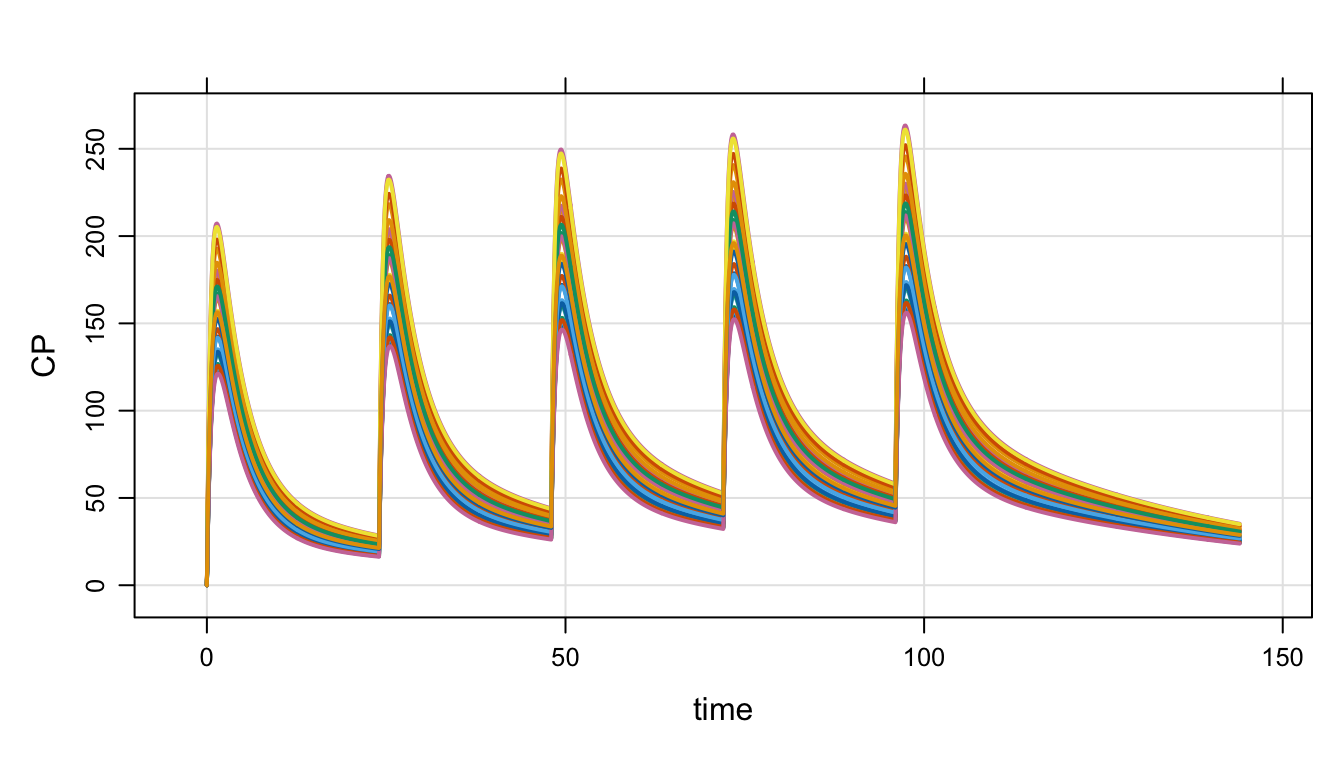
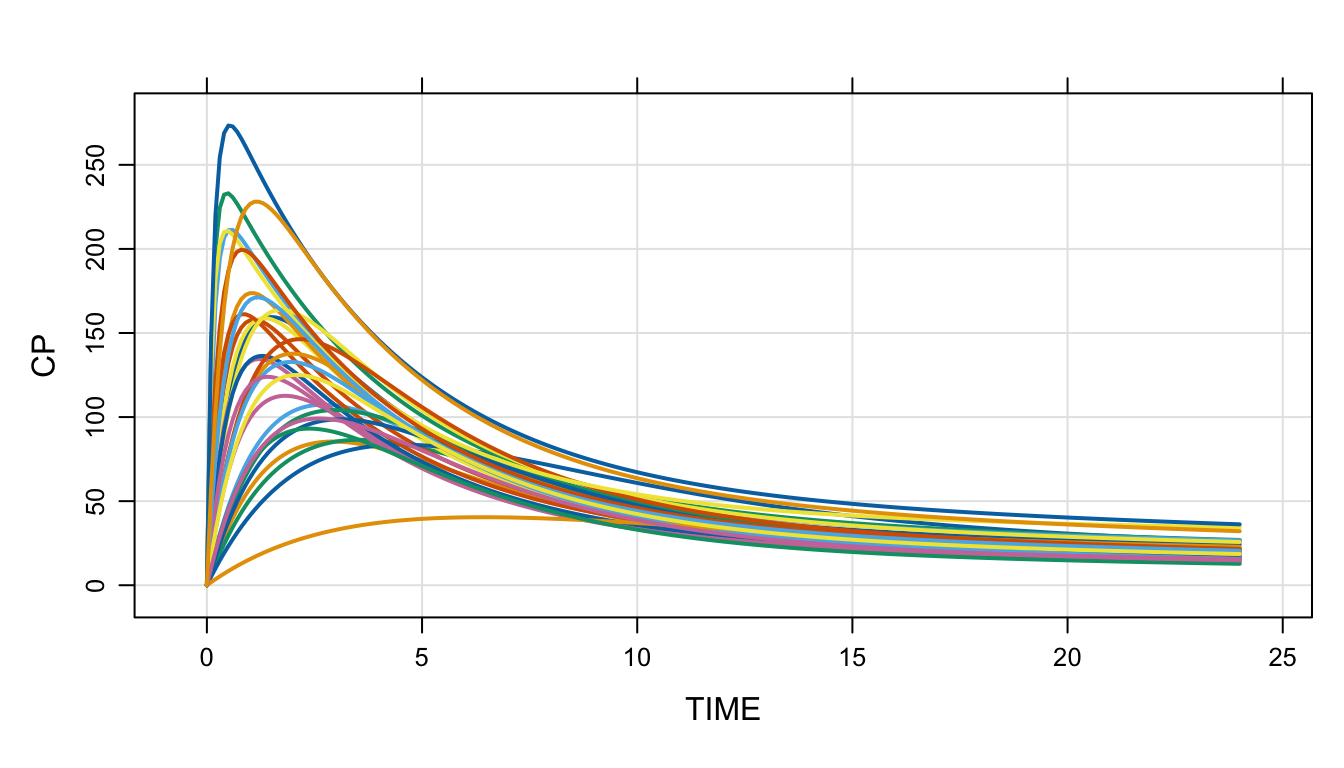
tweaks

diff --git a/wk5/docs/big-picture.html b/wk5/docs/big-picture.html
@@ -285,19 +285,27 @@ pre > code.sourceCode > span > a:first-child::before { text-decoration: underlin
 <p>To simulate a population, you’ll need what we call a data set</p>
 <div class="cell">
 <div class="sourceCode cell-code" id="cb3"><pre class="sourceCode r code-with-copy"><code class="sourceCode r"><span id="cb3-1"><a href="#cb3-1" aria-hidden="true" tabindex="-1"></a>mod <span class="ot">&lt;-</span> <span class="fu">mread_cache</span>(<span class="st">"azithro.mod"</span>, <span class="at">project =</span> <span class="fu">here</span>(<span class="st">"model"</span>))</span>
-<span id="cb3-2"><a href="#cb3-2" aria-hidden="true" tabindex="-1"></a>data <span class="ot">&lt;-</span> <span class="fu">expand.ev</span>(<span class="at">amt =</span> <span class="dv">250</span>, <span class="at">WT =</span> <span class="fu">runif</span>(<span class="dv">30</span>, <span class="dv">50</span>, <span class="dv">100</span>))</span></code><button title="Copy to Clipboard" class="code-copy-button"><i class="bi"></i></button></pre></div>
+<span id="cb3-2"><a href="#cb3-2" aria-hidden="true" tabindex="-1"></a>data <span class="ot">&lt;-</span> <span class="fu">expand.evd</span>(<span class="at">amt =</span> <span class="dv">250</span>, <span class="at">WT =</span> <span class="fu">runif</span>(<span class="dv">30</span>, <span class="dv">50</span>, <span class="dv">100</span>))</span></code><button title="Copy to Clipboard" class="code-copy-button"><i class="bi"></i></button></pre></div>
 </div>
 <div class="cell">
-<div class="sourceCode cell-code" id="cb4"><pre class="sourceCode r code-with-copy"><code class="sourceCode r"><span id="cb4-1"><a href="#cb4-1" aria-hidden="true" tabindex="-1"></a><span class="fu">set.seed</span>(<span class="dv">9876</span>)</span>
-<span id="cb4-2"><a href="#cb4-2" aria-hidden="true" tabindex="-1"></a></span>
-<span id="cb4-3"><a href="#cb4-3" aria-hidden="true" tabindex="-1"></a>mod <span class="sc">%&gt;%</span> </span>
-<span id="cb4-4"><a href="#cb4-4" aria-hidden="true" tabindex="-1"></a>  <span class="fu">data_set</span>(data) <span class="sc">%&gt;%</span> </span>
-<span id="cb4-5"><a href="#cb4-5" aria-hidden="true" tabindex="-1"></a>  <span class="fu">mrgsim</span>(<span class="at">end =</span> <span class="dv">24</span>) <span class="sc">%&gt;%</span> </span>
-<span id="cb4-6"><a href="#cb4-6" aria-hidden="true" tabindex="-1"></a>  <span class="fu">plot</span>(<span class="st">"CP"</span>)</span></code><button title="Copy to Clipboard" class="code-copy-button"><i class="bi"></i></button></pre></div>
+<div class="cell-output cell-output-stdout">
+<pre><code>  ID TIME AMT CMT EVID       WT
+1  1    0 250   1    1 75.76394
+2  2    0 250   1    1 83.29321
+3  3    0 250   1    1 57.20915</code></pre>
+</div>
+</div>
+<div class="cell">
+<div class="sourceCode cell-code" id="cb5"><pre class="sourceCode r code-with-copy"><code class="sourceCode r"><span id="cb5-1"><a href="#cb5-1" aria-hidden="true" tabindex="-1"></a><span class="fu">set.seed</span>(<span class="dv">9876</span>)</span>
+<span id="cb5-2"><a href="#cb5-2" aria-hidden="true" tabindex="-1"></a></span>
+<span id="cb5-3"><a href="#cb5-3" aria-hidden="true" tabindex="-1"></a>mod <span class="sc">%&gt;%</span> </span>
+<span id="cb5-4"><a href="#cb5-4" aria-hidden="true" tabindex="-1"></a>  <span class="fu">data_set</span>(data) <span class="sc">%&gt;%</span> </span>
+<span id="cb5-5"><a href="#cb5-5" aria-hidden="true" tabindex="-1"></a>  <span class="fu">mrgsim</span>(<span class="at">end =</span> <span class="dv">24</span>) <span class="sc">%&gt;%</span> </span>
+<span id="cb5-6"><a href="#cb5-6" aria-hidden="true" tabindex="-1"></a>  <span class="fu">plot</span>(<span class="st">"CP"</span>)</span></code><button title="Copy to Clipboard" class="code-copy-button"><i class="bi"></i></button></pre></div>
 <div class="cell-output-display">
 <div>
 <figure class="figure">
-<p><img src="big-picture_files/figure-html/unnamed-chunk-6-1.png" class="img-fluid figure-img" width="672"></p>
+<p><img src="big-picture_files/figure-html/unnamed-chunk-7-1.png" class="img-fluid figure-img" width="672"></p>
 </figure>
 </div>
 </div>
@@ -307,19 +315,28 @@ pre > code.sourceCode > span > a:first-child::before { text-decoration: underlin
 <h2 data-number="3.4" class="anchored" data-anchor-id="batch"><span class="header-section-number">3.4</span> Batch</h2>
 <p>You can also simulate a population (or a batch of subjects) with a data set of parameters and an event object</p>
 <div class="cell">
-<div class="sourceCode cell-code" id="cb5"><pre class="sourceCode r code-with-copy"><code class="sourceCode r"><span id="cb5-1"><a href="#cb5-1" aria-hidden="true" tabindex="-1"></a>mod <span class="ot">&lt;-</span> <span class="fu">mread_cache</span>(<span class="st">"azithro-fixed.mod"</span>, <span class="at">project =</span> <span class="fu">here</span>(<span class="st">"model"</span>))</span>
-<span id="cb5-2"><a href="#cb5-2" aria-hidden="true" tabindex="-1"></a></span>
-<span id="cb5-3"><a href="#cb5-3" aria-hidden="true" tabindex="-1"></a>data <span class="ot">&lt;-</span> <span class="fu">data.frame</span>(<span class="at">WT =</span> <span class="fu">runif</span>(<span class="dv">30</span>, <span class="dv">50</span>, <span class="dv">100</span>))</span>
-<span id="cb5-4"><a href="#cb5-4" aria-hidden="true" tabindex="-1"></a></span>
-<span id="cb5-5"><a href="#cb5-5" aria-hidden="true" tabindex="-1"></a>mod <span class="sc">%&gt;%</span> </span>
-<span id="cb5-6"><a href="#cb5-6" aria-hidden="true" tabindex="-1"></a>  <span class="fu">ev</span>(<span class="at">amt =</span> <span class="dv">250</span>, <span class="at">ii =</span> <span class="dv">24</span>, <span class="at">addl =</span> <span class="dv">4</span>) <span class="sc">%&gt;%</span> </span>
-<span id="cb5-7"><a href="#cb5-7" aria-hidden="true" tabindex="-1"></a>  <span class="fu">idata_set</span>(data) <span class="sc">%&gt;%</span> </span>
-<span id="cb5-8"><a href="#cb5-8" aria-hidden="true" tabindex="-1"></a>  <span class="fu">mrgsim</span>(<span class="at">end =</span> <span class="dv">144</span>) <span class="sc">%&gt;%</span> </span>
-<span id="cb5-9"><a href="#cb5-9" aria-hidden="true" tabindex="-1"></a>  <span class="fu">plot</span>(<span class="st">"CP"</span>)</span></code><button title="Copy to Clipboard" class="code-copy-button"><i class="bi"></i></button></pre></div>
+<div class="sourceCode cell-code" id="cb6"><pre class="sourceCode r code-with-copy"><code class="sourceCode r"><span id="cb6-1"><a href="#cb6-1" aria-hidden="true" tabindex="-1"></a>mod <span class="ot">&lt;-</span> <span class="fu">mread_cache</span>(<span class="st">"azithro-fixed.mod"</span>, <span class="at">project =</span> <span class="fu">here</span>(<span class="st">"model"</span>))</span>
+<span id="cb6-2"><a href="#cb6-2" aria-hidden="true" tabindex="-1"></a></span>
+<span id="cb6-3"><a href="#cb6-3" aria-hidden="true" tabindex="-1"></a>idata <span class="ot">&lt;-</span> <span class="fu">expand.idata</span>(<span class="at">WT =</span> <span class="fu">runif</span>(<span class="dv">30</span>, <span class="dv">50</span>, <span class="dv">100</span>))</span></code><button title="Copy to Clipboard" class="code-copy-button"><i class="bi"></i></button></pre></div>
+</div>
+<div class="cell">
+<div class="cell-output cell-output-stdout">
+<pre><code>  ID       WT
+1  1 95.01629
+2  2 54.84729
+3  3 93.31941</code></pre>
+</div>
+</div>
+<div class="cell">
+<div class="sourceCode cell-code" id="cb8"><pre class="sourceCode r code-with-copy"><code class="sourceCode r"><span id="cb8-1"><a href="#cb8-1" aria-hidden="true" tabindex="-1"></a>mod <span class="sc">%&gt;%</span> </span>
+<span id="cb8-2"><a href="#cb8-2" aria-hidden="true" tabindex="-1"></a>  <span class="fu">ev</span>(<span class="at">amt =</span> <span class="dv">250</span>, <span class="at">ii =</span> <span class="dv">24</span>, <span class="at">addl =</span> <span class="dv">4</span>) <span class="sc">%&gt;%</span> </span>
+<span id="cb8-3"><a href="#cb8-3" aria-hidden="true" tabindex="-1"></a>  <span class="fu">idata_set</span>(idata) <span class="sc">%&gt;%</span> </span>
+<span id="cb8-4"><a href="#cb8-4" aria-hidden="true" tabindex="-1"></a>  <span class="fu">mrgsim</span>(<span class="at">end =</span> <span class="dv">144</span>) <span class="sc">%&gt;%</span> </span>
+<span id="cb8-5"><a href="#cb8-5" aria-hidden="true" tabindex="-1"></a>  <span class="fu">plot</span>(<span class="st">"CP"</span>)</span></code><button title="Copy to Clipboard" class="code-copy-button"><i class="bi"></i></button></pre></div>
 <div class="cell-output-display">
 <div>
 <figure class="figure">
-<p><img src="big-picture_files/figure-html/unnamed-chunk-7-1.png" class="img-fluid figure-img" width="672"></p>
+<p><img src="big-picture_files/figure-html/unnamed-chunk-10-1.png" class="img-fluid figure-img" width="672"></p>
 </figure>
 </div>
 </div>
@@ -330,14 +347,14 @@ pre > code.sourceCode > span > a:first-child::before { text-decoration: underlin
 <p>The other pattern is just like data set, but we do that in a loop to generate replicate simulations.</p>
 <p>This simulation might look something like this</p>
 <div class="cell">
-<div class="sourceCode cell-code" id="cb6"><pre class="sourceCode r code-with-copy"><code class="sourceCode r"><span id="cb6-1"><a href="#cb6-1" aria-hidden="true" tabindex="-1"></a>sim <span class="ot">&lt;-</span> <span class="cf">function</span>(i, model, data) {</span>
-<span id="cb6-2"><a href="#cb6-2" aria-hidden="true" tabindex="-1"></a>  mod <span class="sc">%&gt;%</span> </span>
-<span id="cb6-3"><a href="#cb6-3" aria-hidden="true" tabindex="-1"></a>    <span class="fu">data_set</span>(data) <span class="sc">%&gt;%</span></span>
-<span id="cb6-4"><a href="#cb6-4" aria-hidden="true" tabindex="-1"></a>    <span class="fu">mrgsim</span>() <span class="sc">%&gt;%</span> </span>
-<span id="cb6-5"><a href="#cb6-5" aria-hidden="true" tabindex="-1"></a>    <span class="fu">mutate</span>(<span class="at">irep =</span> i)</span>
-<span id="cb6-6"><a href="#cb6-6" aria-hidden="true" tabindex="-1"></a>}</span>
-<span id="cb6-7"><a href="#cb6-7" aria-hidden="true" tabindex="-1"></a></span>
-<span id="cb6-8"><a href="#cb6-8" aria-hidden="true" tabindex="-1"></a>out <span class="ot">&lt;-</span> <span class="fu">lapply</span>(<span class="dv">1</span><span class="sc">:</span><span class="dv">1000</span>, sim, <span class="at">model =</span> mod, <span class="at">data =</span> data) <span class="sc">%&gt;%</span> <span class="fu">bind_rows</span>()</span></code><button title="Copy to Clipboard" class="code-copy-button"><i class="bi"></i></button></pre></div>
+<div class="sourceCode cell-code" id="cb9"><pre class="sourceCode r code-with-copy"><code class="sourceCode r"><span id="cb9-1"><a href="#cb9-1" aria-hidden="true" tabindex="-1"></a>sim <span class="ot">&lt;-</span> <span class="cf">function</span>(i, model, data) {</span>
+<span id="cb9-2"><a href="#cb9-2" aria-hidden="true" tabindex="-1"></a>  mod <span class="sc">%&gt;%</span> </span>
+<span id="cb9-3"><a href="#cb9-3" aria-hidden="true" tabindex="-1"></a>    <span class="fu">data_set</span>(data) <span class="sc">%&gt;%</span></span>
+<span id="cb9-4"><a href="#cb9-4" aria-hidden="true" tabindex="-1"></a>    <span class="fu">mrgsim</span>() <span class="sc">%&gt;%</span> </span>
+<span id="cb9-5"><a href="#cb9-5" aria-hidden="true" tabindex="-1"></a>    <span class="fu">mutate</span>(<span class="at">irep =</span> i)</span>
+<span id="cb9-6"><a href="#cb9-6" aria-hidden="true" tabindex="-1"></a>}</span>
+<span id="cb9-7"><a href="#cb9-7" aria-hidden="true" tabindex="-1"></a></span>
+<span id="cb9-8"><a href="#cb9-8" aria-hidden="true" tabindex="-1"></a>out <span class="ot">&lt;-</span> <span class="fu">lapply</span>(<span class="dv">1</span><span class="sc">:</span><span class="dv">1000</span>, sim, <span class="at">model =</span> mod, <span class="at">data =</span> data) <span class="sc">%&gt;%</span> <span class="fu">bind_rows</span>()</span></code><button title="Copy to Clipboard" class="code-copy-button"><i class="bi"></i></button></pre></div>
 </div>
 <p>See <a href="replicate.html" class="quarto-xref"><span>Chapter 12</span></a> for full examples on replicate simulation.</p>
 </section>
